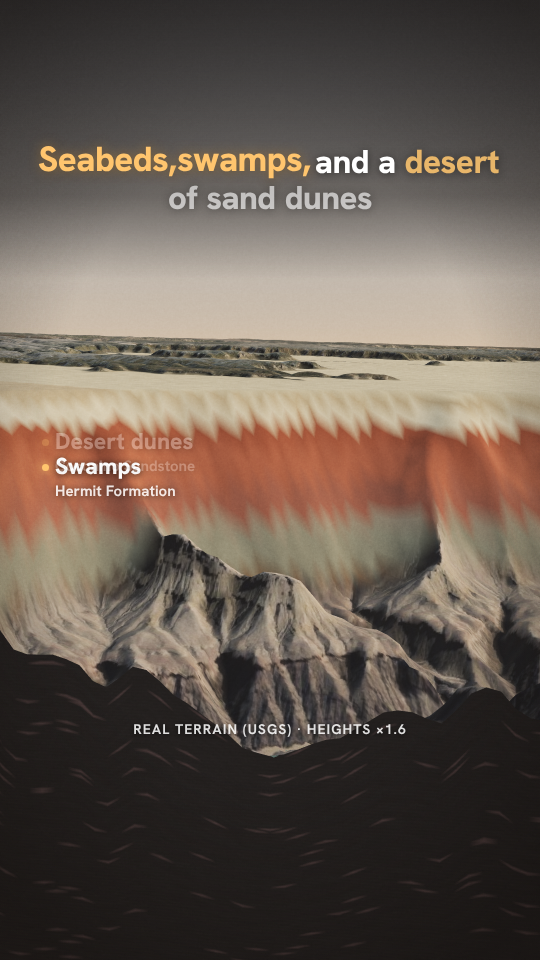
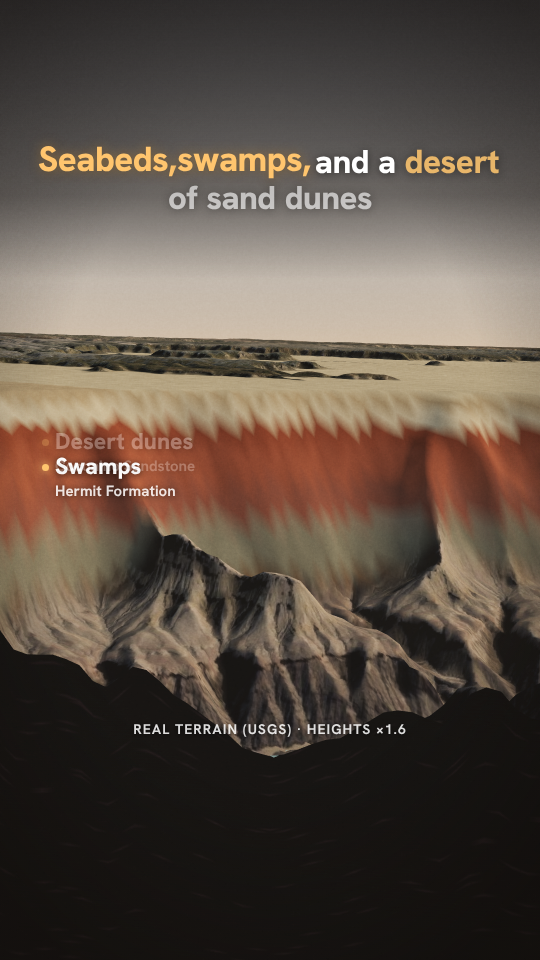
Grand Canyon 01 look pass: environment light on water only (render cost 2.65 -> 1.8 s/frame), darker schist, before/after comparison page
Claude-Session: https://claude.ai/code/session_01WProZXeg9hV8avik7CTNzE

Changed region(s): [[0.0, 0.3438, 1.0, 0.8125]]

diff --git a/projects/grand-canyon-01/compare/index.html b/projects/grand-canyon-01/compare/index.html
@@ -1,0 +1,98 @@
+<title>Grand Canyon Look Pass</title>
+<meta name="claude:viewport-fit-sides" content="cover">
+<link rel="preconnect" href="https://fonts.googleapis.com">
+<link rel="stylesheet" href="https://fonts.googleapis.com/css2?family=Hanken+Grotesk:wght@400;600;800&family=JetBrains+Mono:wght@400;600&display=swap">
+<style>
+/* Layout: one column of before/after wipes in the film's own 9:16 frame, each with what changed; a cost table at the end.
+   Deliberately single-theme: a dark screening room so the frames read as they will on a phone. */
+:root {
+  color-scheme: dark;
+  --bg: #120E0B; --panel: #1C1612; --line: rgba(240,224,205,0.12); --fg: #F1E7DA; --muted: #A8998A; --gold: #FFC56E; --rust: #C2643F;
+  --display: 'Hanken Grotesk', 'Helvetica Neue', Arial, sans-serif; --mono: 'JetBrains Mono', ui-monospace, Menlo, monospace;
+}
+body { background: var(--bg); color: var(--fg); font-family: var(--display); font-size: 16px; line-height: 1.5;
+  padding-left: max(16px, env(safe-area-inset-left, 0px)); padding-right: max(16px, env(safe-area-inset-right, 0px)); padding-block: 28px 72px; }
+.wrap { max-width: 1040px; margin: 0 auto; display: grid; gap: 28px; }
+.eyebrow { font-family: var(--mono); font-size: 12px; letter-spacing: 0.08em; text-transform: uppercase; color: var(--muted); }
+h1 { font-size: clamp(32px, 6vw, 48px); font-weight: 800; letter-spacing: -0.02em; margin: 0; text-wrap: balance; }
+.lede { color: var(--muted); max-width: 66ch; margin: 0; }
+.moments { display: grid; grid-template-columns: repeat(auto-fill, minmax(300px, 1fr)); gap: 22px; }
+.m { display: grid; gap: 10px; align-content: start; min-width: 0; }
+.m h2 { margin: 0; font-size: 17px; font-weight: 800; }
+.m h2 span { font-family: var(--mono); font-size: 12px; color: var(--gold); font-weight: 600; margin-right: 8px; }
+.m p { margin: 0; color: var(--muted); font-size: 14px; }
+.wipe { position: relative; width: 100%; max-width: 100%; aspect-ratio: 9 / 16; border-radius: 14px; overflow: hidden; background: #000; border: 1px solid var(--line); user-select: none; touch-action: none; cursor: ew-resize; }
+.wipe img { position: absolute; inset: 0; width: 100%; height: 100%; object-fit: cover; pointer-events: none; }
+.wipe .after { clip-path: inset(0 0 0 var(--cut, 50%)); }
+.wipe .bar { position: absolute; top: 0; bottom: 0; left: var(--cut, 50%); width: 2px; background: var(--gold); box-shadow: 0 0 12px rgba(0,0,0,.6); transform: translateX(-1px); }
+.wipe .knob { position: absolute; top: 50%; left: var(--cut, 50%); width: 34px; height: 34px; margin: -17px 0 0 -17px; border-radius: 50%; background: var(--gold); color: #1A120C; font: 800 14px var(--display); display: grid; place-items: center; }
+.tag { position: absolute; bottom: 10px; font: 600 11px var(--mono); letter-spacing: .06em; text-transform: uppercase; padding: 3px 8px; border-radius: 6px; background: rgba(0,0,0,.55); color: var(--fg); }
+.tag.b { left: 10px; } .tag.a { right: 10px; color: var(--gold); }
+input[type=range] { width: 100%; accent-color: var(--gold); }
+input[type=range]:focus-visible { outline: 2px solid var(--gold); outline-offset: 2px; }
+.cost { background: var(--panel); border: 1px solid var(--line); border-radius: 16px; padding: 18px; display: grid; gap: 12px; }
+.cost h2 { margin: 0; font-size: 20px; }
+.tbl { overflow-x: auto; }
+table { border-collapse: collapse; width: 100%; font-size: 14px; font-variant-numeric: tabular-nums; }
+th, td { text-align: left; padding: 8px 10px; border-bottom: 1px solid var(--line); vertical-align: top; }
+th { color: var(--muted); font-weight: 600; font-size: 12px; text-transform: uppercase; letter-spacing: .06em; }
+td.n { font-family: var(--mono); white-space: nowrap; }
+.note { color: var(--muted); font-size: 14px; margin: 0; max-width: 72ch; }
+@media (prefers-reduced-motion: reduce) { * { transition: none !important; } }
+</style>
+
+<div class="wrap">
+  <header style="display:grid;gap:10px">
+    <div class="eyebrow">Grand Canyon 01 · look pass · same frames, same camera timing</div>
+    <h1>Before and after the ten upgrades</h1>
+    <p class="lede">Drag across any frame to wipe between the delivered v1 (left) and the upgraded look (right). Each frame is the same moment of the film, rendered by the same pipeline (Remotion + three.js, no Blender). The camera now moves on a smooth spline, so a few frames are framed slightly differently.</p>
+  </header>
+
+  <section class="moments" id="moments"></section>
+
+  <section class="cost">
+    <h2>What it costs to render</h2>
+    <div class="tbl"><table>
+      <thead><tr><th>Version</th><th>Per frame</th><th>Full 77 s film</th><th>Measured how</th></tr></thead>
+      <tbody>
+        <tr><td>v1 (delivered)</td><td class="n">≈ 0.85 s</td><td class="n">36 min</td><td>full render; 120 canyon frames in 121 s</td></tr>
+        <tr><td>All upgrades, first build</td><td class="n">≈ 2.65 s</td><td class="n">≈ 1 h 45 min</td><td>40 canyon frames, same settings</td></tr>
+        <tr><td>…without rock detail</td><td class="n">≈ 2.45 s</td><td class="n"></td><td>rock grain and bump cost ≈ 0.2 s</td></tr>
+        <tr><td>…without sky lighting on every surface</td><td class="n">≈ 1.85 s</td><td class="n"></td><td>sky-based lighting cost ≈ 0.8 s</td></tr>
+        <tr><td><strong>Upgraded (sky lighting on the water only)</strong></td><td class="n"><strong>≈ 1.8 s</strong></td><td class="n"><strong>≈ 70 min</strong></td><td>what the right-hand frames use</td></tr>
+      </tbody>
+    </table></div>
+    <p class="note">Per-frame figures subtract about 20 s of start-up per run. The rest of the extra cost is the satellite imagery, baked light textures, sky dome and height haze, drawn in software because this cloud machine has no graphics card. On a machine with a GPU the same scene would render many times faster.</p>
+  </section>
+</div>
+
+<script>
+const M = [
+  ['0:00', '000.5', 'The boulder', 'Rock surface computed per pixel (foliation, a smooth granite vein, grain) and a real shadow pass for close shots; darker, schist-coloured.'],
+  ['0:07', '007.5', '“cut a mile”', 'USGS satellite imagery on the real terrain, shadows and crevice darkening baked from the elevation data, sharper relief from a high-resolution normal texture, valley haze.'],
+  ['0:16', '00016', 'Under the river', 'Pebbles are lumpy stones seated in the bed with contact shadows and rolling as they move; light patterns (caustics) on the riverbed; clearer water.'],
+  ['0:24', '024.5', '“a steep drop to the sea”', 'Sky dome matched to the haze colour, so the horizon and the distance agree.'],
+  ['0:43', '00043', '“seabeds, swamps, desert”', 'Cut face gets bedding planes and grain; the canyon top behind it is the real imagery.'],
+  ['0:50', '00050', '“crumble into slopes”', 'Same cut face with the canyon profile behind it; cliffs and slopes read through light and shadow, not colour alone.'],
+  ['0:58', '00058', 'Flash flood', 'Imagery and baked shadows on the side canyons; the flood is a thinner bright core with a soft glow.'],
+  ['1:02', '00062', '“18 miles apart”', 'Top view: the real canyon as seen from above, with relief and shadows.'],
+  ['1:14', '074.6', '“the walls still fall”', 'Rockfall uses tumbling stones that cast shadows instead of boxes.'],
+];
+const root = document.getElementById('moments');
+for (const [t, id, title, what] of M) {
+  const el = document.createElement('article'); el.className = 'm';
+  el.innerHTML = `<div class="wipe" style="--cut:50%"><img alt="" src="before_${id}.jpg"><img class="after" alt="" src="after_${id}.jpg"><div class="bar"></div><div class="knob">↔</div><span class="tag b">Before</span><span class="tag a">After</span></div>
+    <input type="range" min="0" max="100" value="50" aria-label="Wipe between before and after">
+    <h2><span></span></h2><p></p>`;
+  el.querySelector('img').alt = `Before: ${title}`; el.querySelector('img.after').alt = `After: ${title}`;
+  el.querySelector('h2 span').textContent = t; el.querySelector('h2').append(document.createTextNode(title));
+  el.querySelector('p').textContent = what;
+  const wipe = el.querySelector('.wipe'), range = el.querySelector('input'); range.id = 'wipe-' + id;
+  const set = (v) => { wipe.style.setProperty('--cut', v + '%'); range.value = v; };
+  range.addEventListener('input', () => set(range.value));
+  const drag = (e) => { const r = wipe.getBoundingClientRect(); set(Math.max(0, Math.min(100, ((e.clientX - r.left) / r.width) * 100)).toFixed(1)); };
+  wipe.addEventListener('pointerdown', (e) => { wipe.setPointerCapture(e.pointerId); drag(e); });
+  wipe.addEventListener('pointermove', (e) => { if (e.buttons) drag(e); });
+  root.appendChild(el);
+}
+</script>

diff --git a/projects/grand-canyon-01/film/src/World.tsx b/projects/grand-canyon-01/film/src/World.tsx
@@ -270,7 +270,10 @@ export const World: React.FC<{f: Fields; t: number; look: Look}> = ({f, t, look}
   gl.toneMappingExposure = under ? 1.1 : camDist < 0.05 ? 1.0 : 0.9;
   // profiling switches (render --props): {"off": ["detail", "env", "shadow"]}
   const OFF: string[] = ((getInputProps() as {off?: string[]}).off) || [];
-  scene.environment = OFF.includes('env') ? null : mats.env; scene.environmentIntensity = 0.6;
+  // the sky's environment light only on the water (reflections); everything else gets a sky-coloured hemisphere light,
+  // which costs almost nothing in software rendering (environment lighting on every surface measured ~0.8 s/frame)
+  scene.environment = null;
+  (mats.water as THREE.MeshStandardMaterial).envMap = OFF.includes('env') ? null : mats.env;
   mats.U.uDetail.value = OFF.includes('detail') ? 0 : 1;
   mats.U.uUnder.value = under ? 1 : 0; (mats.sky.uniforms.uUnder as THREE.IUniform).value = under ? 1 : 0;
   mats.uTime.value = t; mats.uCaustic.value = under ? 1 : 0.4;
@@ -298,7 +301,7 @@ export const World: React.FC<{f: Fields; t: number; look: Look}> = ({f, t, look}
   return (
     <>
       <mesh position={rig.pos} material={mats.sky} renderOrder={-1} frustumCulled={false}><sphereGeometry args={[250, 48, 24]} /></mesh>
-      <hemisphereLight args={['#BFD3EA', '#6A4A34', 0.35]} />
+      <hemisphereLight args={['#C9D9EE', '#7A5A42', 1.05]} />
       <primitive object={sun} />
       <primitive object={sun.target} />
       <group position={[0, lift, 0]}>
